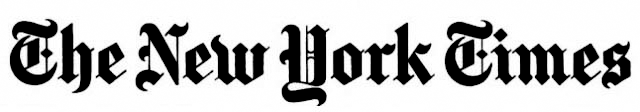
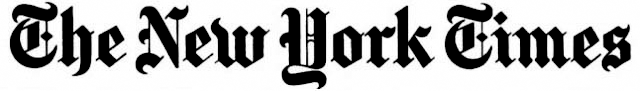
image size tweaks on news page

diff --git a/wp-content/themes/bones/library/css/style.css b/wp-content/themes/bones/library/css/style.css
@@ -4976,98 +4976,116 @@ img.rsImg {
 }
 
 /* line 2, ../scss/partials/_wen.scss */
+#logo-fast {
+  height: 1.5em;
+  vertical-align: top;
+}
+
+/* line 7, ../scss/partials/_wen.scss */
+#logo-nyt {
+  height: 2em;
+  vertical-align: top;
+}
+
+/* line 12, ../scss/partials/_wen.scss */
+#logo-forbes {
+  height: 1.6em;
+  vertical-align: top;
+}
+
+/* line 17, ../scss/partials/_wen.scss */
 .excerpt-read-more {
   color: #ed228b !important;
   font-family: "franklin-gothic-urw",sans-serif;
 }
-/* line 8, ../scss/partials/_wen.scss */
+/* line 21, ../scss/partials/_wen.scss */
 .excerpt-read-more:hover {
   text-decoration: underline;
 }
 
-/* line 13, ../scss/partials/_wen.scss */
+/* line 26, ../scss/partials/_wen.scss */
 .news-post-wrapper {
   border-bottom: 1px solid #bdbdbd;
 }
 
-/* line 17, ../scss/partials/_wen.scss */
+/* line 30, ../scss/partials/_wen.scss */
 .post-header {
   margin-bottom: 0;
 }
 
-/* line 21, ../scss/partials/_wen.scss */
+/* line 34, ../scss/partials/_wen.scss */
 .news-post-inner {
   margin-bottom: -16px;
 }
 
-/* line 25, ../scss/partials/_wen.scss */
+/* line 38, ../scss/partials/_wen.scss */
 .news-logos-container {
-  margin-top: 50px;
+  margin-top: 30px;
 }
-/* line 27, ../scss/partials/_wen.scss */
+/* line 40, ../scss/partials/_wen.scss */
 .news-logos-container img {
   height: 32px;
   margin-right: 40px;
 }
 
-/* line 34, ../scss/partials/_wen.scss */
+/* line 47, ../scss/partials/_wen.scss */
 .media-inquiry-info {
   margin-top: 80px;
 }
 
-/* line 38, ../scss/partials/_wen.scss */
+/* line 51, ../scss/partials/_wen.scss */
 .mail-link {
   color: #ed228b !important;
 }
 
-/* line 42, ../scss/partials/_wen.scss */
+/* line 55, ../scss/partials/_wen.scss */
 .small-title {
   font-weight: 400;
 }
 
-/* line 48, ../scss/partials/_wen.scss */
+/* line 61, ../scss/partials/_wen.scss */
 form input {
   display: inline;
 }
-/* line 53, ../scss/partials/_wen.scss */
+/* line 66, ../scss/partials/_wen.scss */
 form input, form textarea {
   -webkit-transition: all 0.3s ease-in-out;
   transition: all 0.3s ease-in-out;
   outline: none;
   font-family: "franklin-gothic-urw",sans-serif !important;
 }
-/* line 59, ../scss/partials/_wen.scss */
+/* line 72, ../scss/partials/_wen.scss */
 form ::-webkit-input-placeholder, form ::-webkit-textarea-placeholder {
   color: #323944;
   font-weight: 500;
   text-transform: uppercase;
 }
-/* line 65, ../scss/partials/_wen.scss */
+/* line 78, ../scss/partials/_wen.scss */
 form :-moz-placeholder {
   /* Firefox 18- */
   color: #323944;
   font-weight: 500;
   text-transform: uppercase;
 }
-/* line 71, ../scss/partials/_wen.scss */
+/* line 84, ../scss/partials/_wen.scss */
 form ::-moz-placeholder {
   /* Firefox 19+ */
   color: #323944;
   font-weight: 500;
   text-transform: uppercase;
 }
-/* line 77, ../scss/partials/_wen.scss */
+/* line 90, ../scss/partials/_wen.scss */
 form :-ms-input-placeholder {
   color: #323944;
   font-weight: 500;
   text-transform: uppercase;
 }
-/* line 83, ../scss/partials/_wen.scss */
+/* line 96, ../scss/partials/_wen.scss */
 form input:focus, form textarea:focus {
   box-shadow: 0 0 5px #ed228b;
   border: 1px solid #ed228b;
 }
-/* line 88, ../scss/partials/_wen.scss */
+/* line 101, ../scss/partials/_wen.scss */
 form div {
   display: inline-block;
   padding: 10px 10px;
@@ -5075,44 +5093,44 @@ form div {
   font-weight: 500;
   text-transform: uppercase;
 }
-/* line 96, ../scss/partials/_wen.scss */
+/* line 109, ../scss/partials/_wen.scss */
 form .full-width {
   width: 100%;
 }
-/* line 100, ../scss/partials/_wen.scss */
+/* line 113, ../scss/partials/_wen.scss */
 form input[type="text"], form input[type="email"], form input[type="tel"], form input[type="url"], form textarea {
   background-color: white;
   border: 1px solid #bdbdbd;
   border-radius: 0;
 }
-/* line 106, ../scss/partials/_wen.scss */
+/* line 119, ../scss/partials/_wen.scss */
 form textarea {
   resize: none;
 }
-/* line 110, ../scss/partials/_wen.scss */
+/* line 123, ../scss/partials/_wen.scss */
 form input[type="radio"] {
   margin-right: 8px;
 }
-/* line 114, ../scss/partials/_wen.scss */
+/* line 127, ../scss/partials/_wen.scss */
 form label {
   margin-right: 20px;
 }
 
-/* line 120, ../scss/partials/_wen.scss */
+/* line 133, ../scss/partials/_wen.scss */
 .general {
   float: right;
 }
 
-/* line 124, ../scss/partials/_wen.scss */
+/* line 137, ../scss/partials/_wen.scss */
 .wpcf7-captchac {
   padding-top: 10px;
 }
 
-/* line 128, ../scss/partials/_wen.scss */
+/* line 141, ../scss/partials/_wen.scss */
 .form-submit {
   float: right;
 }
-/* line 132, ../scss/partials/_wen.scss */
+/* line 145, ../scss/partials/_wen.scss */
 .form-submit input[type=submit] {
   color: white;
   white-space: nowrap;
@@ -5125,27 +5143,27 @@ form label {
   border: 0 none;
   width: 100%;
 }
-/* line 144, ../scss/partials/_wen.scss */
+/* line 157, ../scss/partials/_wen.scss */
 .form-submit input[type=submit]:hover {
   background-color: #ed228b;
 }
 
-/* line 151, ../scss/partials/_wen.scss */
+/* line 164, ../scss/partials/_wen.scss */
 #sidebar-intro p {
   margin-bottom: 15px;
 }
 @media (max-width: 768px) {
-  /* line 150, ../scss/partials/_wen.scss */
+  /* line 163, ../scss/partials/_wen.scss */
   #sidebar-intro {
     margin: auto;
     text-align: left;
   }
 }
-/* line 160, ../scss/partials/_wen.scss */
+/* line 173, ../scss/partials/_wen.scss */
 #sidebar-intro ul {
   list-style-position: inside;
 }
-/* line 163, ../scss/partials/_wen.scss */
+/* line 176, ../scss/partials/_wen.scss */
 #sidebar-intro ul li:before {
   color: #ed228b;
   content: "\2022";
@@ -5154,23 +5172,23 @@ form label {
   position: relative;
   top: .1em;
 }
-/* line 172, ../scss/partials/_wen.scss */
+/* line 185, ../scss/partials/_wen.scss */
 #sidebar-intro ul ul {
   margin-top: -0.2em;
 }
-/* line 176, ../scss/partials/_wen.scss */
+/* line 189, ../scss/partials/_wen.scss */
 #sidebar-intro ul ul li:before {
   color: #bdbdbd;
   font-size: 1.2em;
 }
 
-/* line 188, ../scss/partials/_wen.scss */
+/* line 201, ../scss/partials/_wen.scss */
 .our-solutions-list h2 {
   font-family: "franklin-gothic-urw",sans-serif;
   margin-top: -1.6em;
 }
 
-/* line 195, ../scss/partials/_wen.scss */
+/* line 208, ../scss/partials/_wen.scss */
 .first-p {
   font-size: 1.5em !important;
   margin-bottom: 1em !important;
@@ -5178,22 +5196,22 @@ form label {
   line-height: 1.2em;
 }
 
-/* line 203, ../scss/partials/_wen.scss */
+/* line 216, ../scss/partials/_wen.scss */
 .sub-page-content-wrapper img {
   margin-bottom: 0 !important;
 }
 
-/* line 233, ../scss/partials/_wen.scss */
+/* line 246, ../scss/partials/_wen.scss */
 #opt {
   text-align: center;
   margin-top: 20px;
 }
-/* line 237, ../scss/partials/_wen.scss */
+/* line 250, ../scss/partials/_wen.scss */
 #opt .opt_btn_wrapper {
   margin-top: 30px;
 }
 
-/* line 242, ../scss/partials/_wen.scss */
+/* line 255, ../scss/partials/_wen.scss */
 #ooButton {
   margin-top: 20px;
   cursor: pointer;
@@ -5206,13 +5224,13 @@ form label {
   -webkit-transition: all 0.2s;
   transition: all 0.2s;
 }
-/* line 253, ../scss/partials/_wen.scss */
+/* line 266, ../scss/partials/_wen.scss */
 #ooButton:hover {
   background-color: #ed228b;
 }
 
 @media (max-width: 560px) {
-  /* line 259, ../scss/partials/_wen.scss */
+  /* line 272, ../scss/partials/_wen.scss */
   .wpcf7-list-item {
     display: block;
   }

diff --git a/wp-content/themes/bones/library/scss/partials/_wen.scss b/wp-content/themes/bones/library/scss/partials/_wen.scss
@@ -1,9 +1,22 @@
 // posts page styling
+#logo-fast {
+	height:1.5em;
+	vertical-align: top;
+}
+
+#logo-nyt {
+	height: 2em;
+	vertical-align: top;
+}
+
+#logo-forbes {
+	height: 1.6em;
+	vertical-align: top;
+}
+
 .excerpt-read-more {
 	color: $brand-color !important;
 	font-family: "franklin-gothic-urw",sans-serif;
-	// margin-top: 20px;
-	// display: inline-block;
 
 	&:hover {
 		text-decoration: underline;
@@ -23,7 +36,7 @@
 }
 
 .news-logos-container {
-	margin-top: 50px;
+	margin-top: 30px;
 	img {
 		height: 32px;
 		margin-right: 40px;

diff --git a/wp-content/themes/bones/page-news.php b/wp-content/themes/bones/page-news.php
@@ -37,9 +37,9 @@
 						<?php if (is_page(298)) { ?>
 							<?php query_posts( 'cat=18' ); ?>
 							<div class="news-logos-container">
-								<img src="<?php bloginfo('url'); ?>/img/fastcompany.png">
-								<img src="<?php bloginfo('url'); ?>/img/nyt.png">
-								<img src="<?php bloginfo('url'); ?>/img/forbes.png">
+								<img id="logo-fast" src="<?php bloginfo('url'); ?>/img/fastcompany.png">
+								<img id="logo-nyt" src="<?php bloginfo('url'); ?>/img/nyt.png">
+								<img id="logo-forbes" src="<?php bloginfo('url'); ?>/img/forbes.png">
 							</div>
 							<!-- IF PRESS PAGE -->
 						<?php } elseif (is_page(65)) { ?>
@@ -47,10 +47,7 @@
 
 
 						<?php } ?>
-
-																<!-- IF PRESS PAGE -->
 										
-
 										
 
 							<?php if (have_posts()) : while (have_posts()) : the_post(); ?>

diff --git a/wp-content/themes/bones/footer.php b/wp-content/themes/bones/footer.php
@@ -97,10 +97,6 @@
 
 								<?php echo '<div class="other-businesses-container">';
 
-									// 
-									// $other_businesses_list = get_field('other_businesses_list', 'options');
-									// echo '<span class="headline city">' . $other_businesses . '</span>';
-									// echo '<span class="copy address other-businesses-content">' . $other_businesses_list . '</span>';
 
 								if(get_field('other_businesses_list', 'options')): 
 									$other_businesses = get_field('other_businesses', 'options'); ?>
